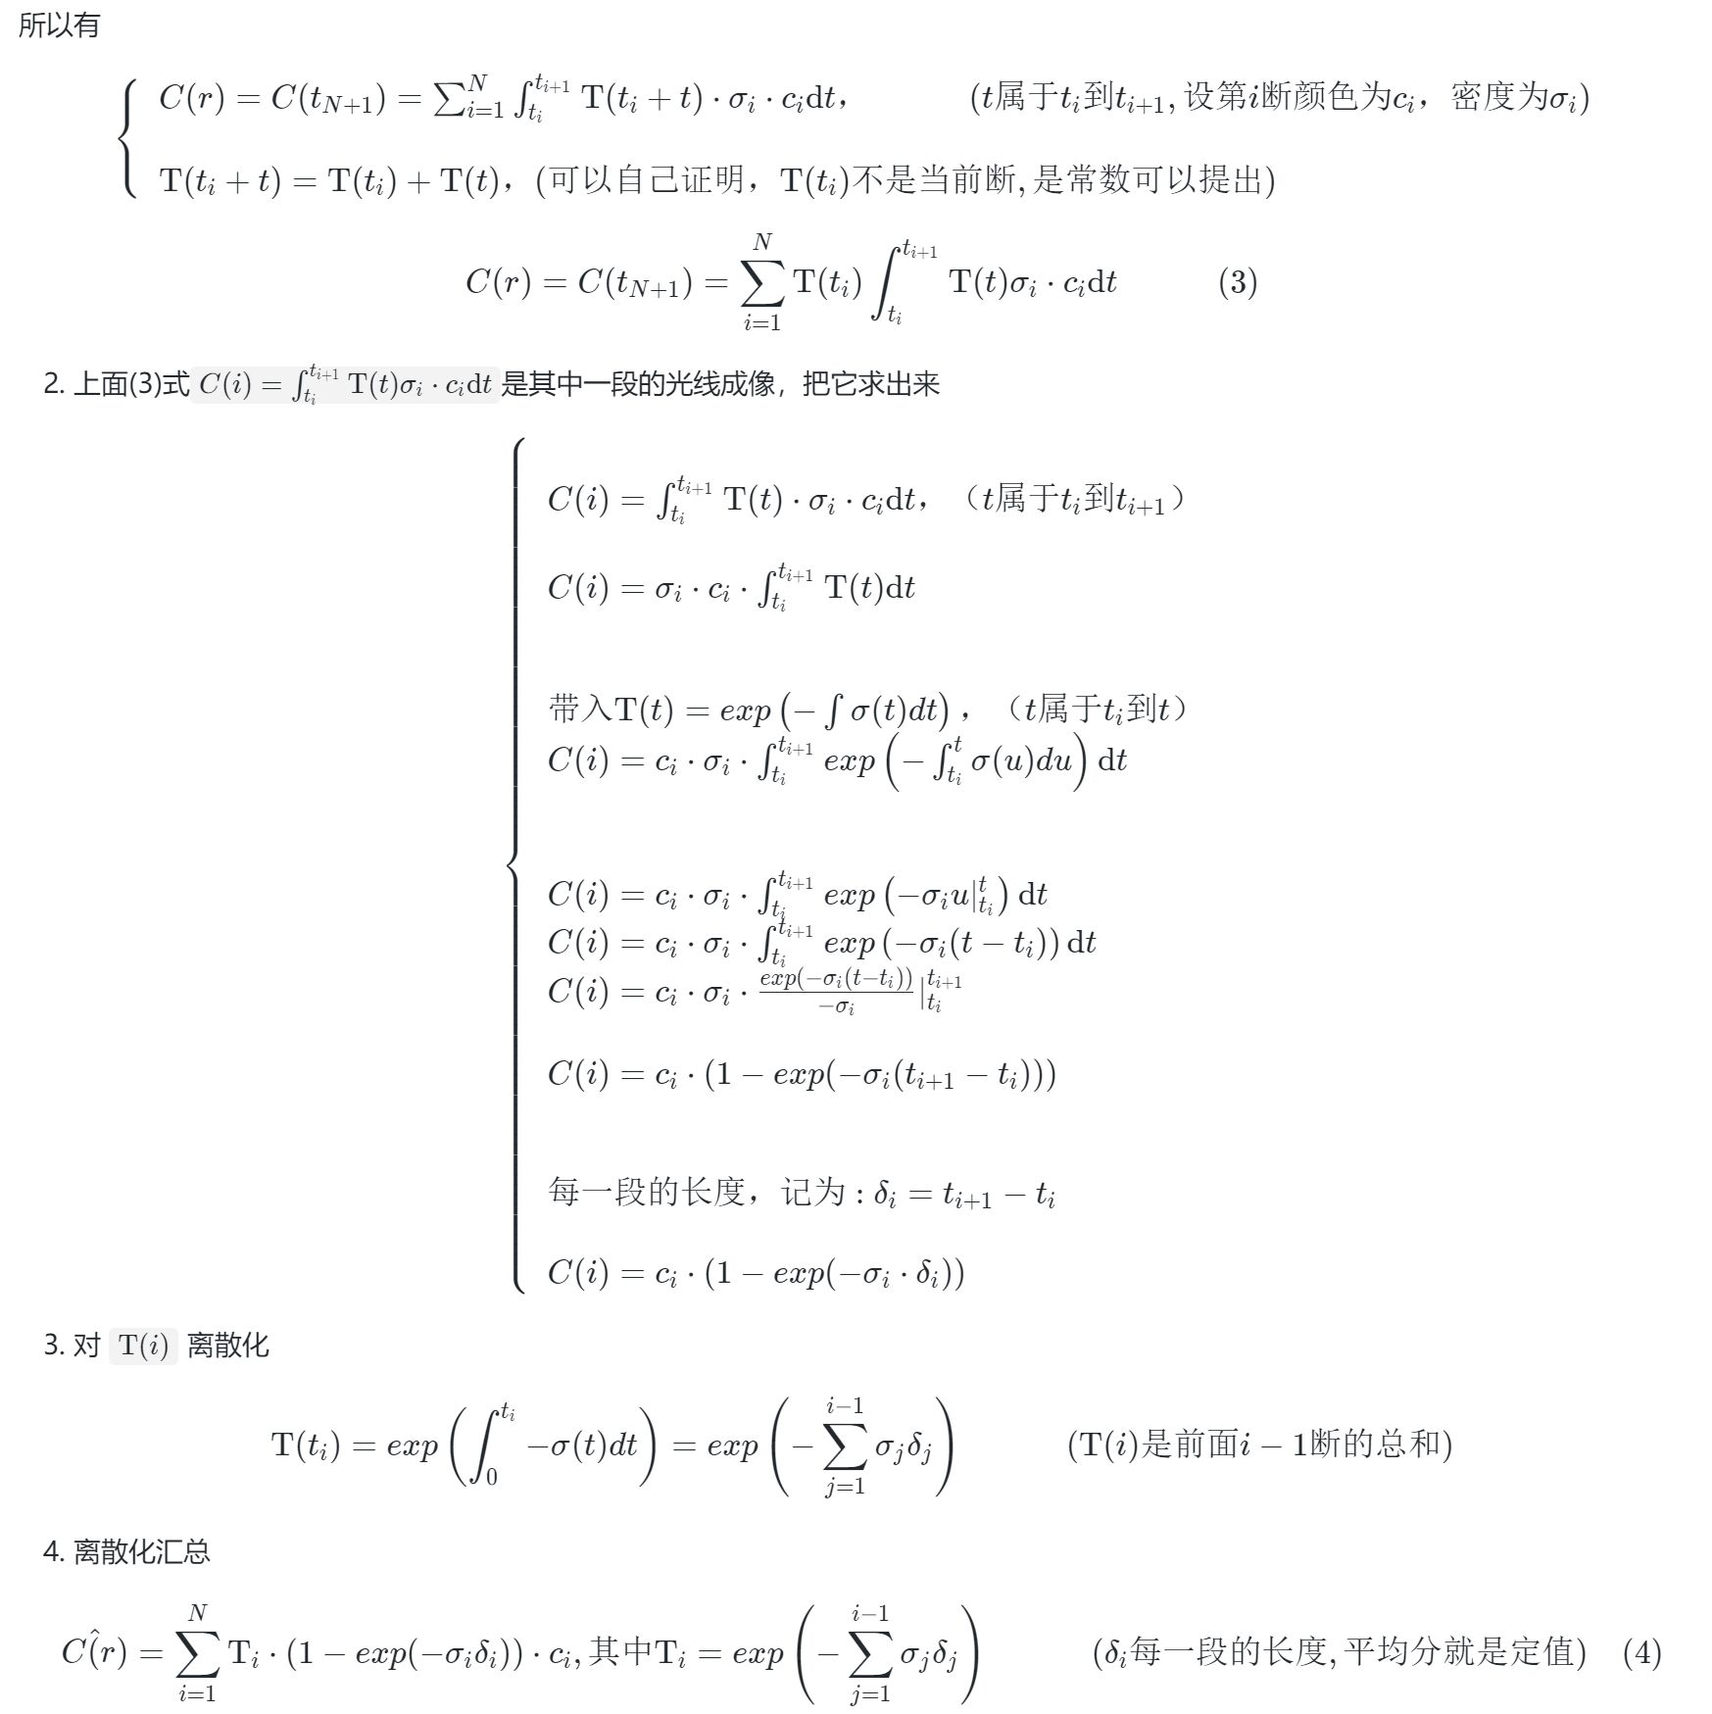
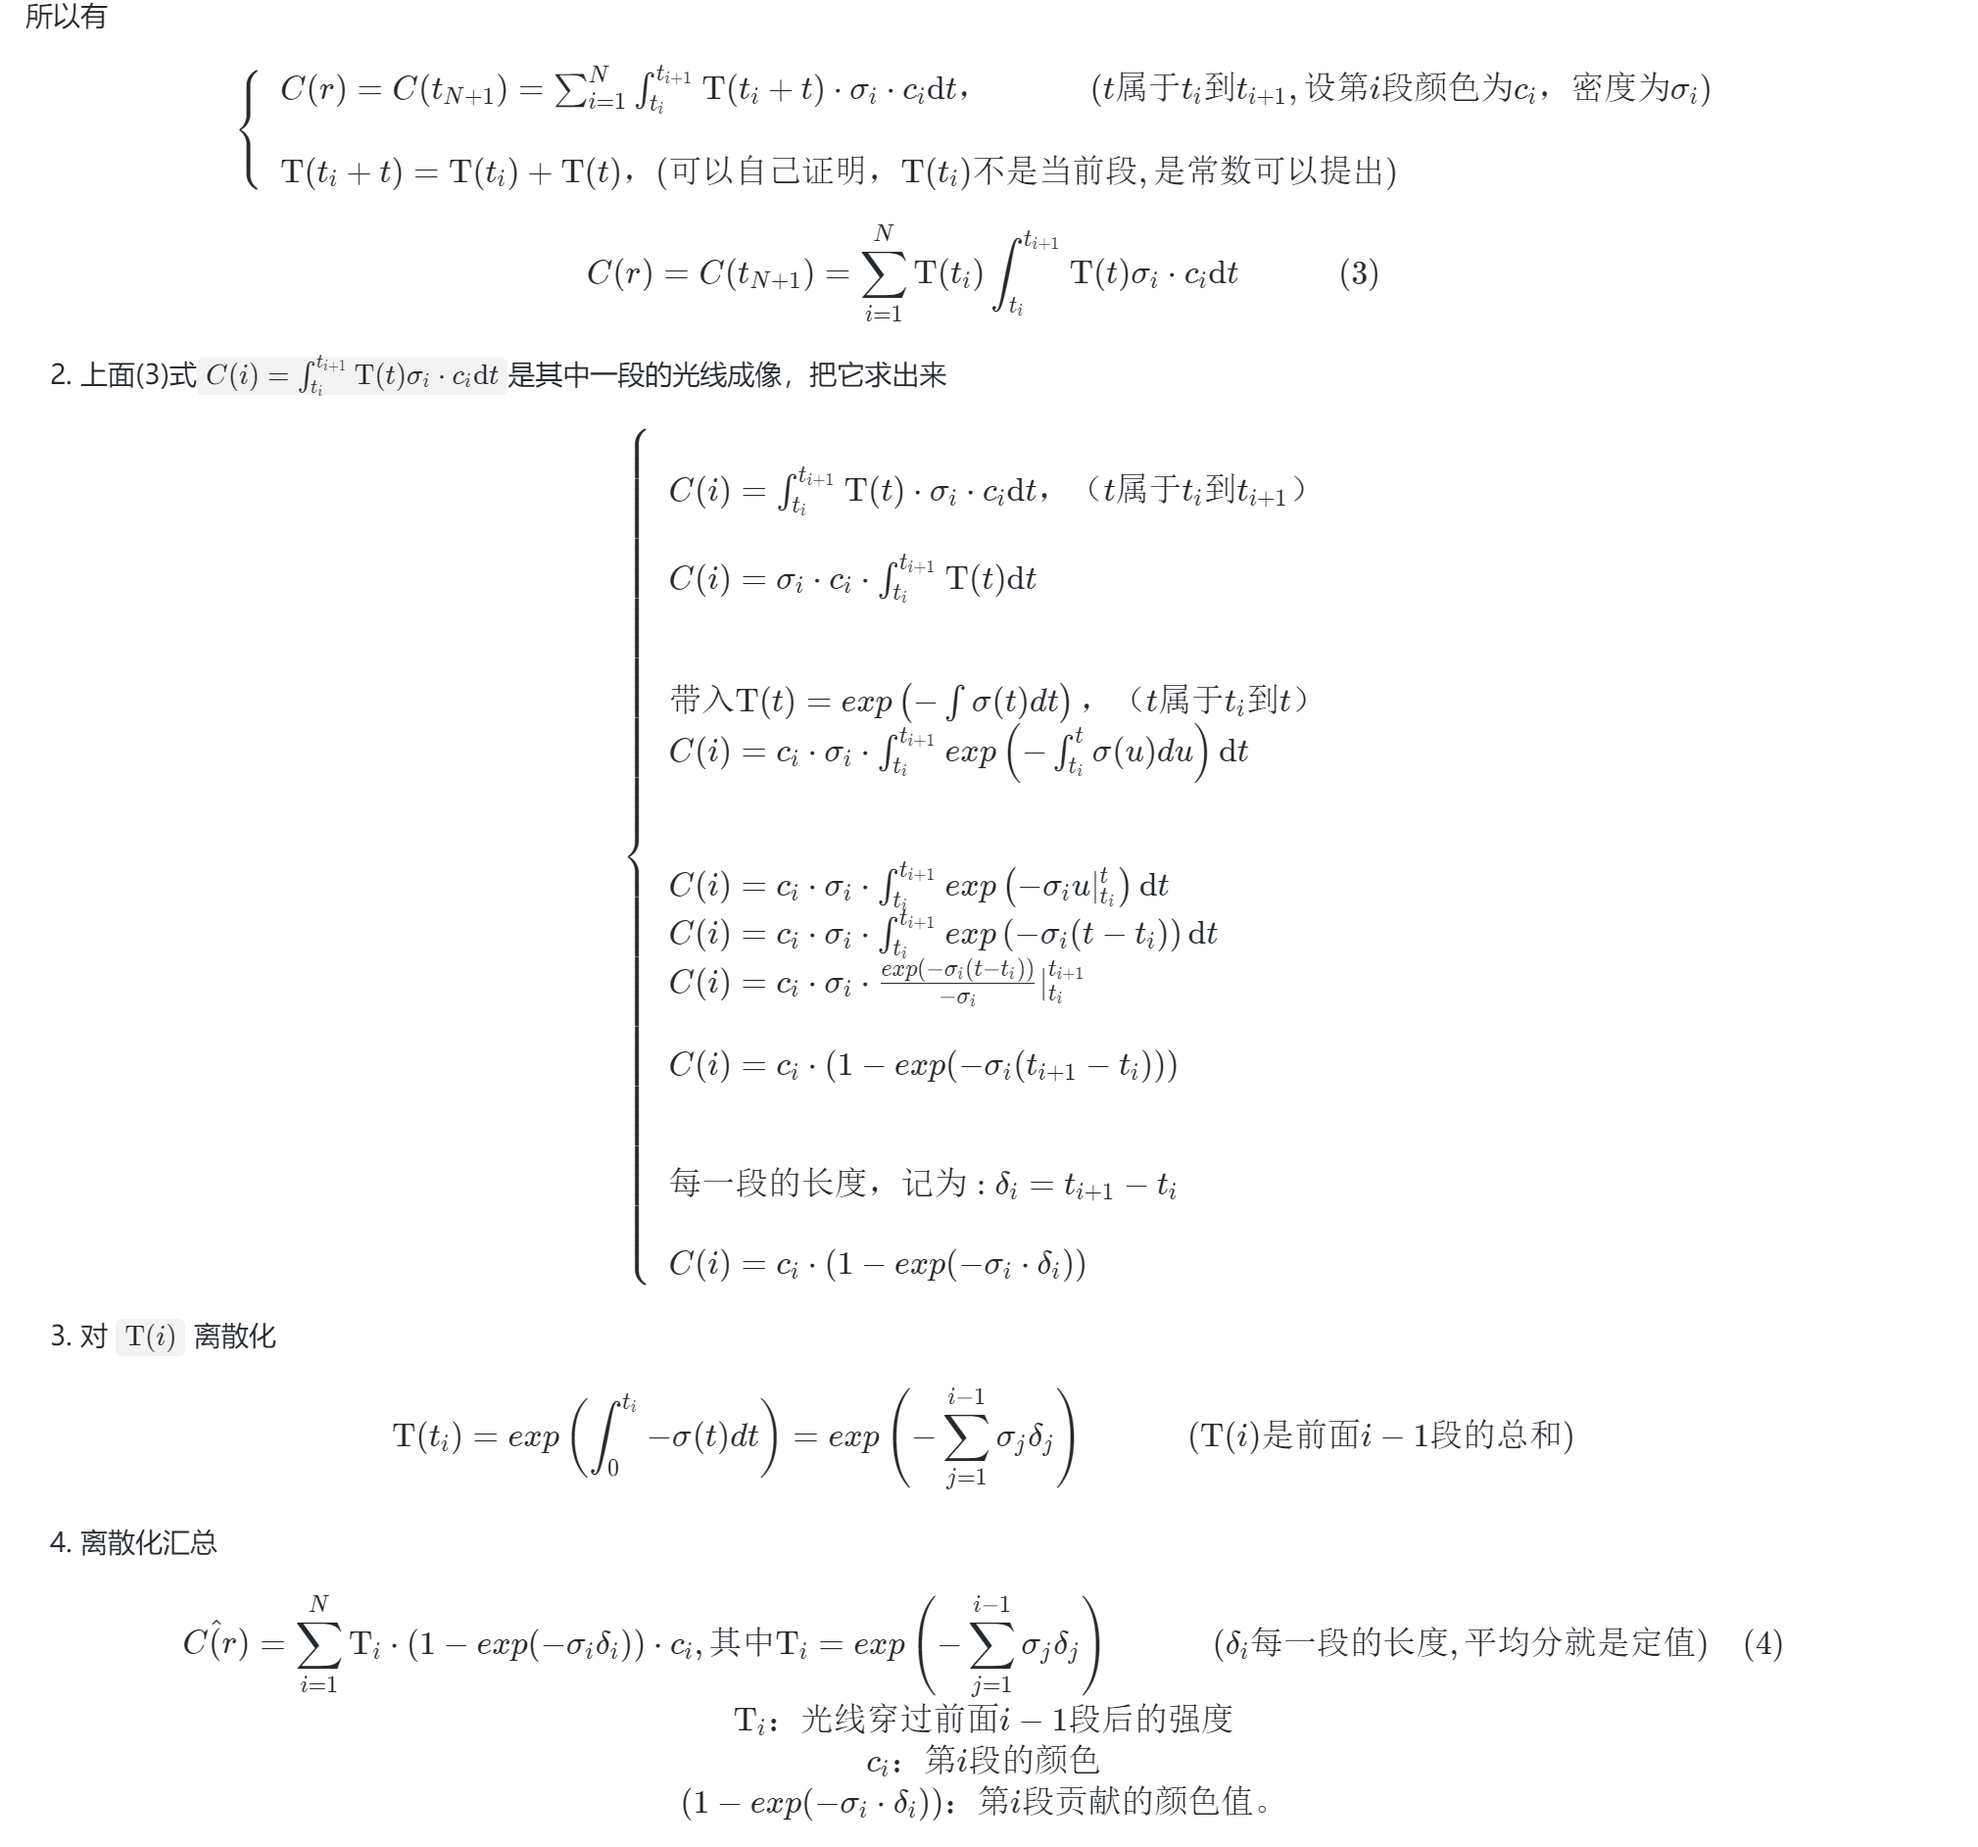
解释最终的公式

diff --git a/04.颠覆传统三维重建方法之nerf(四)---公式推导-光线成像模型.md b/04.颠覆传统三维重建方法之nerf(四)---公式推导-光线成像模型.md
@@ -89,6 +89,7 @@ C(r) = \int ^{t_f}_{t_n} \Tau(t)  \cdot \sigma(r(t))  \cdot c(r(t),d)  \mathrm{d
 ![](.images/ace264c0.png)
 <!--![](E:/workspace/06-docment/nerf-learn/.images/ace264c0.png)-->
 <!--
+
 所以有
 ```math
 \left \{ \begin{array}{l}
@@ -138,5 +139,10 @@ C(i) = c_i \cdot  (1-exp( -\sigma_i \cdot \delta_i)) \\
 
 ```math
 \hat{C(r)} = \sum_{i=1}^{N}  \Tau_i \cdot (1-exp(-\sigma_i\delta_i )) \cdot c_i, 其中 \Tau_i = exp\left( -\sum_{j=1}^{i-1}\sigma_j\delta_j  \right) \quad\quad\quad( \delta_i每一段的长度,平均分就是定值)\quad(4)
+\\
+\Tau_i：光线穿过前面i-1段后的强度 \\
+\\
+c_i：第i段的颜色\\
+(1-exp( -\sigma_i \cdot \delta_i))：第i段贡献的颜色值。
 ```
 -->
